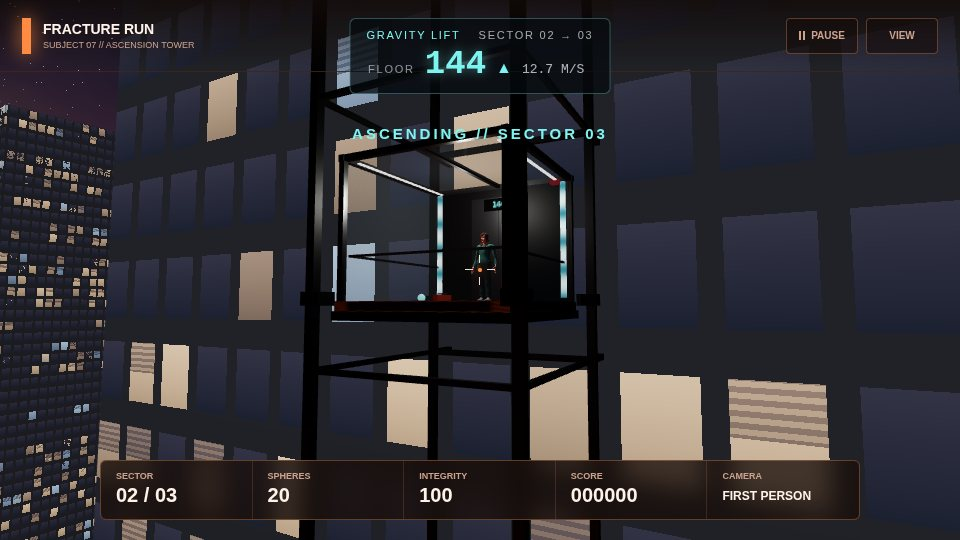
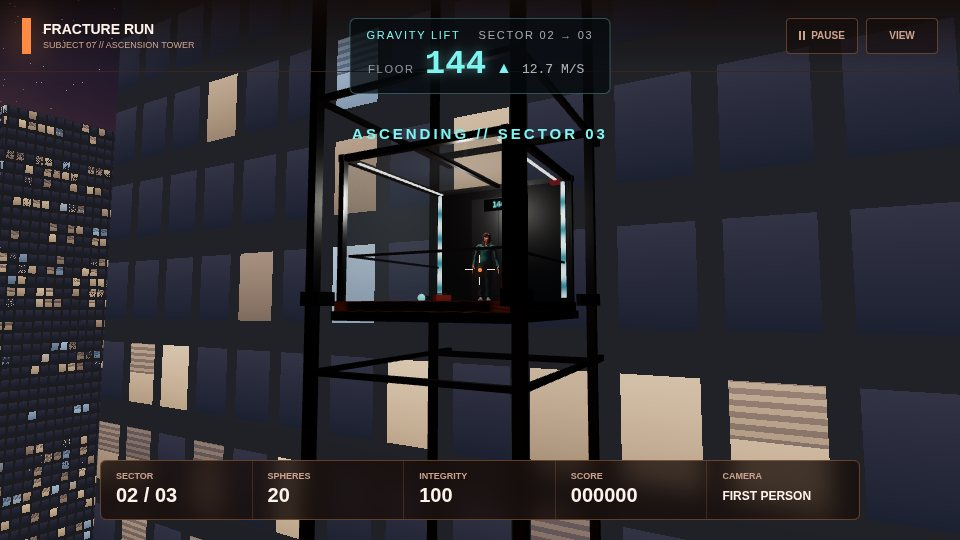
Gravity Fault: the character acts - flinches, stumbles, braces, floats, slams down

diff --git a/src/elevators/acting.js b/src/elevators/acting.js
@@ -1,0 +1,246 @@
+/**
+ * Subject 07's acting in the lift: the character reacts to what is happening
+ * instead of standing still.
+ *
+ * It drives Level 3's PlayerAvatar directly - the vertex-shader rig's
+ * controls (characters.js: uCrouch, uTuck, uLean, uReachUp, uHold,
+ * uArmSwing/uPhase, uStride) plus the body's own transform - from a few
+ * layered behaviours:
+ *
+ *   idle     breathing, small weight shifts, arms settling, and looking
+ *            around (out at the city, down, back at the doors)
+ *   react    a flinch toward/away from something: a lurch, a half-crouch,
+ *            the body turning to it
+ *   stumble  thrown off balance: staggered steps, arms out, then catching it
+ *   brace    knees bent, weight forward, arms a little out - holding on
+ *   fear     builds with every scare and fades slowly: heavier, faster
+ *            breathing, quicker nervous glances, arms held up in front,
+ *            a lower stance
+ *   gravity  the body is a physical thing in the cabin's felt gravity: it
+ *            drifts up off the floor in free fall (knees tucking, arms
+ *            reaching and paddling), and slams down into a deep crouch when
+ *            the brakes bite, then gets back up
+ *   pickUp / hold   step 4: the launcher
+ *
+ * Every control eases toward its target at its own rate, so the behaviours
+ * blend rather than snap. Local frame: feet at y = 0 in the cabin, yaw 0 =
+ * facing -Z (out over the city).
+ */
+
+import * as THREE from "../three.js";
+
+const ease = (value, target, rate, dt) => value + (target - value) * (1 - Math.exp(-rate * dt));
+
+export class Performer {
+  /**
+   * @param {import("../levels/meltdown/player.js").PlayerAvatar} avatar
+   * @param {object} [o]
+   * @param {THREE.Vector3} [o.home]  where they stand in the cabin
+   */
+  constructor(avatar, { home = new THREE.Vector3(-0.35, 0, 0.35), reduced = false } = {}) {
+    this.avatar = avatar;
+    this.home = home.clone();
+    this.reduced = reduced;
+    this.time = 0;
+    // Current (eased) values of every control.
+    this.c = { crouch: 0, tuck: 0, lean: 0, side: 0, reach: 0, hold: 0, swing: 0.05, stride: 0, yaw: 0, pitch: 0 };
+    // Behaviour state.
+    this.brace = 0;
+    this.flinch = 0;
+    this.flinchSide = 0;
+    this.lookYaw = 0;
+    this.lookHold = 0;
+    this.stagger = new THREE.Vector3();
+    this.staggerV = new THREE.Vector3();
+    this.stepping = 0;
+    this.phase = 0;
+    this.floatY = 0;
+    this.floatV = 0;
+    this.impact = 0;
+    this.tumble = 0;
+    this.tumbleV = 0;
+    this.fear = 0;
+    this.breathPhase = 0;
+    /** Extra control targets a scripted moment can set (the pickup). */
+    this.override = null;
+    this.attention = null;
+  }
+
+  /** Where the body is now, in the cabin's frame (for cameras). */
+  get position() {
+    return this.avatar.root.position;
+  }
+
+  /**
+   * Flinch at something. `yaw` is the direction it came from (0 = ahead,
+   * +PI/2 = to their left); they turn toward it.
+   */
+  react(yaw = 0, strength = 1) {
+    this.flinch = Math.min(1, this.flinch + strength);
+    this.scare(strength * 0.5);
+    this.flinchSide = Math.sign(Math.sin(yaw)) || 1;
+    this.look(yaw, 1.8);
+  }
+
+  /** Thrown off balance by (dx, dz) metres. */
+  stumble(dx, dz, strength = 1) {
+    if (this.floatY > 0.05) return;
+    this.scare(strength * 0.3);
+    this.staggerV.x += dx * 3.2;
+    this.staggerV.z += dz * 3.2;
+    this.stepping = Math.max(this.stepping, 0.55 * strength);
+    this.flinch = Math.min(1, this.flinch + 0.5 * strength);
+    this.flinchSide = -Math.sign(dx) || 1;
+  }
+
+  /** Raise the fear level (0..1). */
+  scare(amount) {
+    this.fear = Math.min(1, this.fear + amount);
+  }
+
+  /** Turn to look at a direction (cabin yaw) for a while. */
+  look(yaw, seconds = 2) {
+    this.lookYaw = yaw;
+    this.lookHold = seconds;
+  }
+
+  /** How hard to hold on, 0..1. */
+  setBrace(amount) {
+    this.brace = amount;
+  }
+
+  /** The floor drops away or kicks: an upward shove (m/s). */
+  jolt(up) {
+    this.floatV += up;
+    this.floatY = Math.max(this.floatY, 0.001);
+    this.tumbleV += (Math.random() - 0.5) * 0.6;
+  }
+
+  update(dt, gEff) {
+    this.time += dt;
+    const t = this.time;
+    const c = this.c;
+    const calm = this.reduced ? 0.5 : 1;
+
+    // ---- Gravity: the body in the cabin's felt gravity. ----
+    if (this.floatY > 0 || this.floatV > 0) {
+      this.floatV -= gEff * dt;
+      this.floatY += this.floatV * dt;
+      // Head on the ceiling (the cabin is 3.2 m tall).
+      if (this.floatY > 1.25) {
+        this.floatY = 1.25;
+        this.floatV = -Math.abs(this.floatV) * 0.3;
+      }
+      if (this.floatY <= 0) {
+        // Landing: how hard decides how deep they drop.
+        const hit = Math.min(1, Math.max(0, -this.floatV) / 5);
+        if (hit > 0.08) {
+          this.impact = Math.max(this.impact, hit);
+          this.flinch = Math.min(1, this.flinch + hit);
+        }
+        this.floatY = 0;
+        this.floatV = 0;
+      }
+    }
+    // Heavy felt gravity (the brakes slamming) drives them down even when
+    // their feet are already on the floor.
+    if (this.floatY <= 0 && gEff > 16) {
+      this.impact = Math.max(this.impact, Math.min(1, (gEff - 16) / 40));
+      this.scare(dt * 2);
+    }
+    const airborne = this.floatY > 0.03;
+    this.impact = Math.max(0, this.impact - dt * 0.45);
+    this.fear = Math.max(0, this.fear - dt * 0.09);
+    // A slow tumble while weightless; it rights itself on landing.
+    if (airborne) {
+      this.tumbleV += (Math.random() - 0.5) * dt * 0.4;
+      this.tumble += this.tumbleV * dt;
+      this.tumble = THREE.MathUtils.clamp(this.tumble, -0.45, 0.45);
+    } else {
+      this.tumble = ease(this.tumble, 0, 8, dt);
+      this.tumbleV = 0;
+    }
+
+    // ---- Stagger: a sprung offset from home, with steps while it moves. ----
+    this.staggerV.addScaledVector(this.stagger, -26 * dt).multiplyScalar(Math.max(0, 1 - 6 * dt));
+    this.stagger.addScaledVector(this.staggerV, dt);
+    this.stepping = Math.max(0, this.stepping - dt);
+    if (this.stepping > 0) this.phase += dt * 9;
+
+    // ---- Where they look: held glances, else idle looking around. ----
+    this.lookHold -= dt;
+    let yaw = this.lookYaw;
+    if (this.lookHold <= 0) {
+      // Idle: out at the city, a glance left, down at the floor, back -
+      // quicker, jumpier glances when scared.
+      const beat = Math.floor(t / (2.6 - 1.4 * this.fear)) % 4;
+      yaw = [0.05, 0.55, -0.35, 0.2][beat] * (1 + this.fear * 0.4);
+    }
+    if (this.attention !== null) yaw = this.attention;
+
+    // ---- Targets. ----
+    this.flinch = Math.max(0, this.flinch - dt * 1.6);
+    const f = this.flinch;
+    const b = Math.max(this.brace, this.impact * 0.6);
+    const fear = this.fear;
+    // Breathing: calm and slow, or fast and heavy after a scare.
+    this.breathPhase += dt * (1.7 + 3.2 * fear);
+    const breath = Math.sin(this.breathPhase);
+    const target = {
+      crouch: b * 0.34 + f * 0.12 + this.impact * 0.62 + fear * 0.08,
+      tuck: airborne ? 0.55 + 0.25 * Math.sin(t * 1.3) : 0,
+      lean: (0.03 + 0.04 * fear) * breath + b * 0.18 + this.impact * 0.3 - f * 0.12 + fear * 0.06 + (airborne ? -0.15 : 0),
+      side: 0.035 * Math.sin(t * 0.37) * calm + f * 0.12 * this.flinchSide,
+      reach: airborne ? 0.55 + 0.2 * Math.sin(t * 2.1) : f * 0.15,
+      // Arms: forearms come up in front, protective, when braced or scared.
+      hold: airborne ? 0 : Math.min(0.55, b * 0.35 + fear * 0.3 + f * 0.2),
+      swing: airborne ? 0.55 : this.stepping > 0 ? 0.6 : 0.06 + b * 0.25 + f * 0.3,
+      stride: this.stepping > 0 ? 0.45 : 0,
+      yaw,
+      pitch: -0.08 * f + this.tumble,
+    };
+    if (this.override) Object.assign(target, this.override);
+
+    c.crouch = ease(c.crouch, target.crouch, this.impact > 0.3 ? 18 : 6, dt);
+    c.tuck = ease(c.tuck, target.tuck, 5, dt);
+    c.lean = ease(c.lean, target.lean, 7, dt);
+    c.side = ease(c.side, target.side, 6, dt);
+    c.reach = ease(c.reach, target.reach, 4, dt);
+    c.hold = ease(c.hold, target.hold, 5, dt);
+    c.swing = ease(c.swing, target.swing, 5, dt);
+    c.stride = ease(c.stride, target.stride, 10, dt);
+    c.yaw = ease(c.yaw, target.yaw, 2.8, dt);
+    c.pitch = ease(c.pitch, target.pitch, 6, dt);
+    // Arms: slow paddling when weightless, quick when staggering, a settle otherwise.
+    const armRate = airborne ? 2.2 : this.stepping > 0 ? 9 : 0.9;
+    if (this.stepping <= 0) this.phase += dt * armRate;
+
+    this._apply(breath);
+  }
+
+  _apply(breath) {
+    const a = this.avatar;
+    const c = this.c;
+    const u = a.uniforms;
+    if (u) {
+      u.uPhase.value = this.phase;
+      u.uStride.value = c.stride;
+      u.uArmSwing.value = c.swing;
+      u.uLean.value = c.lean;
+      u.uCrouch.value = c.crouch;
+      u.uTuck.value = c.tuck;
+      u.uHold.value = c.hold;
+      u.uReachUp.value = c.reach;
+    }
+    // The rig drops the whole body by 0.42 m per unit of crouch (it was made
+    // for sliding); lift it back so the feet stay on the floor in a squat.
+    const lift = c.crouch * 0.3 + c.tuck * 0.1;
+    a.root.position.set(this.home.x + this.stagger.x, this.home.y + this.floatY + lift, this.home.z + this.stagger.z);
+    a.root.rotation.y = c.yaw;
+    a.body.rotation.set(c.pitch, 0, c.side);
+    a.body.position.y = (0.004 + 0.006 * this.fear) * breath;
+    // Contact shadow stays on the floor and fades as they lift off it.
+    a.shadow.position.y = 0.025 - this.floatY - lift;
+    a.shadowMaterial.opacity = Math.max(0.2, 1 - this.floatY * 1.2);
+  }
+}

diff --git a/src/elevators/gravity-fault.js b/src/elevators/gravity-fault.js
@@ -69,6 +69,7 @@ import { CameraShake } from "./shake.js";
 import { Sparks } from "./sparks.js";
 import { CabinGlass } from "./glass.js";
 import { CabinDebris } from "./debris.js";
+import { Performer } from "./acting.js";
 import { ElevatorHud } from "../ui/elevator-hud.js";
 import { PlayerAvatar } from "../levels/meltdown/player.js";
 
@@ -93,7 +94,7 @@ const SHOTS = {
   board: [[0, "doors"]],
   climb: [[0, "exterior"]],
   tremor: [[0, "interior"], [1.9, "close"]],
-  freefall: [[0, "interior"], [0.45, "falling"]],
+  freefall: [[0, "interior"], [0.45, "falling"], [1.2, "close"]],
   brake: [[0, "interior"], [0.8, "close"]],
   resume: [[0, "rising"]],
 };
@@ -164,6 +165,8 @@ export class GravityFaultRide {
     this.figure = character ? this._characterFigure(character) : buildFigure(this.owned);
     this.figure.root.position.set(-0.35, 0, 0.35);
     this.cabin.root.add(this.figure.root);
+    // The character acts: reacts, stumbles, braces, floats (acting.js).
+    this.performer = this._avatar ? new Performer(this._avatar, { home: this.figure.root.position, reduced: reducedMotion }) : null;
     this.sparks = new Sparks(700);
     scene.add(this.world.root, this.shaft.root, this.cabin.root, this.sparks.points);
     this.glass = new CabinGlass(this.cabin, scene);
@@ -269,7 +272,8 @@ export class GravityFaultRide {
     s.flash = Math.max(0, s.flash - dt * 3);
     this.uniforms.uFlash.value = s.flash;
 
-    this.figure.pose(0, time, dt);
+    if (this.performer) this.performer.update(dt, s.gEff);
+    else this.figure.pose(s.gEff < 3 ? 1 : 0, time);
     this.glass.update(dt, s.gEff);
     this.debris.update(dt, s.gEff);
     this.sparks.update(dt);
@@ -301,14 +305,24 @@ export class GravityFaultRide {
       // The floor drops away: everything loose lifts off it.
       this.debris.jolt(1);
       this.glass.jolt(1);
+      this._act((p) => {
+        p.setBrace(0);
+        p.jolt(0.9);
+        p.react(0, 0.8);
+      });
       this._crack("front", [0.72, 0.3], 0.9, 0.55);
       this.hud.alert("CABLE FAILURE", "danger");
       this.events.emit("cable-snap", { floor: START_FLOOR + s.cabinY / STOREY });
     } else if (name === "brake") {
+      this._act((p) => p.look(0.3, 1.5));
       this.hud.alert("EMERGENCY BRAKES", "danger");
       this.events.emit("brake", {});
     } else if (name === "resume") {
       s.lights = { main: 0.75, a: 1, b: 0, red: 1 };
+      this._act((p) => {
+        p.setBrace(0.25);
+        p.look(-0.5, 1.6);
+      });
       this.hud.alert("BRAKES RELEASED // ASCENDING", "good");
       this.events.emit("resume", {});
     }
@@ -331,6 +345,10 @@ export class GravityFaultRide {
       this.cabin.setDoors(0);
       once("depart", 0, () => {
         this.shake.add(0.25);
+        this._act((p) => {
+          p.impact = 0.25;
+          p.look(0.4, 1.5);
+        });
         this.hud.alert("ASCENDING // SECTOR 03", "info");
         this.events.emit("depart", {});
       });
@@ -343,6 +361,8 @@ export class GravityFaultRide {
         s.flash = 0.8;
         this.debris.jolt(0.45);
         this._crack("left", [0.32, 0.62], 1.0, 0.45);
+        // Something cracked, to their left: flinch and turn to it.
+        this._act((p) => p.react(1.1, 0.8));
         this.hud.alert("SEISMIC EVENT", "danger");
       });
       once("quake2", 1.5, () => {
@@ -352,17 +372,28 @@ export class GravityFaultRide {
         this.glass.jolt(0.4);
         this._crack("left", [0.32, 0.62], 0.8, 0.85);
         this._crack("right", [0.7, 0.4], 0.8, 0.35);
+        this._act((p) => {
+          p.stumble(0.35, -0.1, 1);
+          p.setBrace(0.6);
+        });
         this.events.emit("flicker", {});
       });
       once("stall", 2.6, () => {
         this.shake.add(0.35);
         this.debris.jolt(0.3);
+        this._act((p) => p.react(0, 0.4));
         this.hud.alert("LIFT STALLED", "danger");
       });
       once("blowout", 3.1, () => {
         this.shake.add(0.4);
         this.shake.kick(0.12, 0, 0);
         this._shatter("left", { outward: 0.8, force: 7 });
+        // Thrown away from the blast, arms up.
+        this._act((p) => {
+          p.react(1.1, 1);
+          p.stumble(0.4, 0.1, 1);
+          p.setBrace(0.85);
+        });
       });
       // Flickering from the second quake; strip B dies for good.
       const flick = pt > 1.5 ? flicker(time, 1.3) : 1;
@@ -399,6 +430,7 @@ export class GravityFaultRide {
           this.events.emit("brake-slam", { dropped: s.fallFrom - s.cabinY });
         });
         this._grind(dt, Math.max(0, 60 * (1 - (pt - SLAM) / 0.8)), 0.3);
+        once("recover", 0.9, () => this._act((p) => p.setBrace(0.5)));
         // The lights stutter back on, dimmer.
         s.lights.main = pt > 0.9 ? 0.4 + 0.35 * flicker(time, 2.2) : 0;
         s.lights.a = pt > 1.1 ? flicker(time, 5.5) : 0;
@@ -409,6 +441,11 @@ export class GravityFaultRide {
       s.fault = Math.max(0.35, s.fault - dt * 0.3);
       this.shake.floor = 0.06;
     }
+  }
+
+  /** Direct the character (no-op for the stand-in figure). */
+  _act(fn) {
+    if (this.performer) fn(this.performer);
   }
 
   _crack(pane, impact, seconds, amount) {
@@ -458,6 +495,8 @@ export class GravityFaultRide {
 
   /** The camera shot for the current phase and time. */
   currentShot() {
+    // For the check harness and screenshots: hold one shot.
+    if (this.forceShot) return this.forceShot;
     const list = SHOTS[this.phase] ?? SHOTS.climb;
     let shot = list[0][1];
     for (const [at, name] of list) if (this.state.pt >= at) shot = name;
@@ -491,8 +530,9 @@ export class GravityFaultRide {
     } else if (shot === "close") {
       // Inside, from the front corner, on Subject 07.
       const u = Math.min(1, s.shotT / 3);
+      const who = this.figure.root.position;
       cam.position.set(1.45 - u * 0.15, y + 1.75, -1.6);
-      _look.set(-0.35, y + 1.15, 0.5);
+      _look.set(who.x, y + who.y + 1.1, who.z + 0.15);
       cam.fov = 60;
     } else if (shot === "exterior" || shot === "rising") {
       // Outside, over the drop: the cabin climbing the tower, the fire below.
